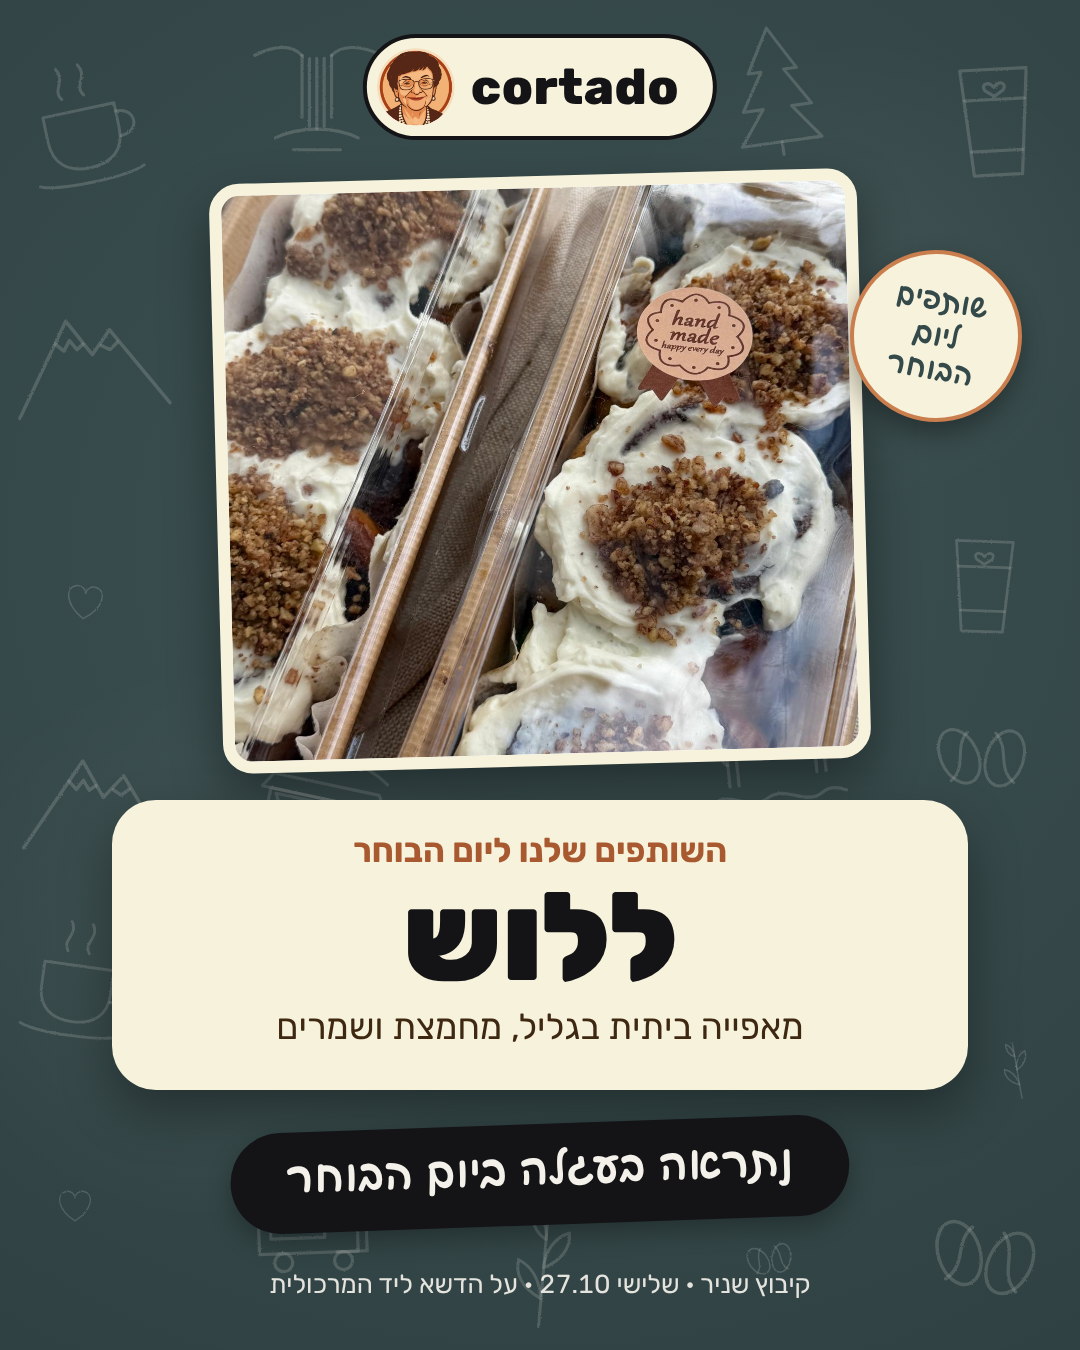
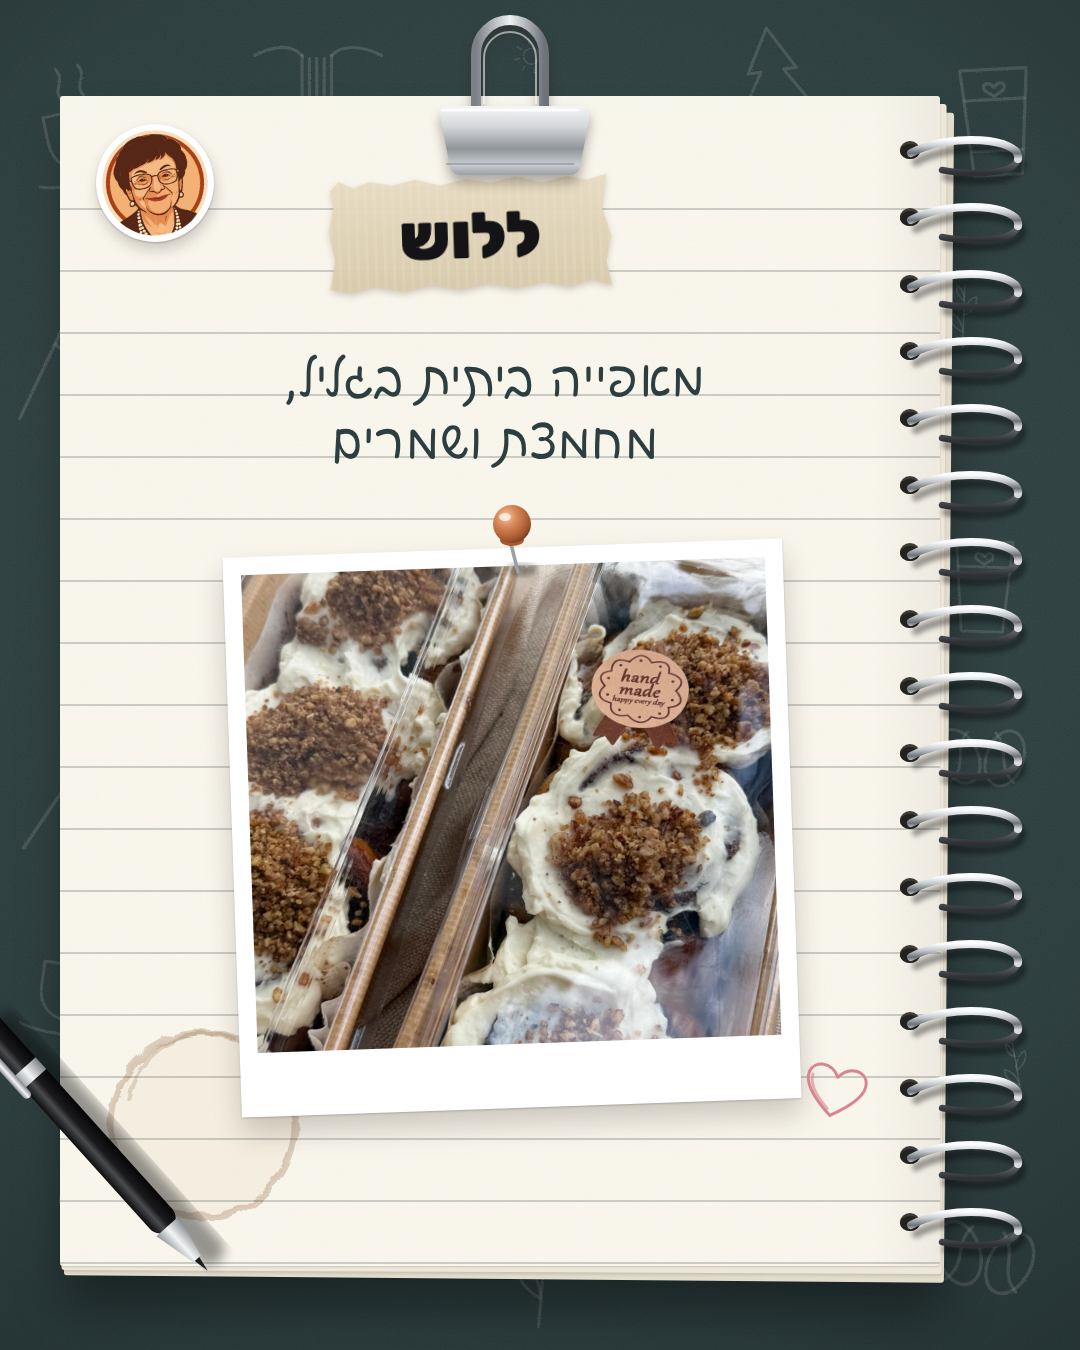
Election-day carousel: real-notebook pages in the cart's colors
Templates 80-84 with notebook.css/notebook.js (ruled paper, spiral, clip,
tape, pins, pen, coffee ring) on the chalkboard green. Replaces 70-74.

Claude-Session: https://claude.ai/code/session_013haAdpctRrk92YNsAEXH9q

diff --git a/toolkit/templates/notebook.js b/toolkit/templates/notebook.js
@@ -1,0 +1,54 @@
+// Real-notebook frame (24.10.2026). Include after the page's own markup.
+// body[data-lined] rules the paper; body[data-clip] adds the binder clip.
+// Fill-ins: .pin .pen .stain .heart .paperclip get their SVG from here, placed by their inline style.
+(function () {
+  const b = document.body, NS = "http://www.w3.org/2000/svg";
+  const add = (html, before) => { const t = document.createElement("template"); t.innerHTML = html.trim(); const n = t.content.firstChild;
+    before ? b.insertBefore(n, b.firstChild) : b.appendChild(n); return n; };
+
+  // the layers under the page, inserted back to front at the start of <body>
+  const under = [
+    '<img class="doodles" src="../assets/art/doodles-post.svg" alt="">',
+    '<svg class="desk-noise" viewBox="0 0 1080 1350" preserveAspectRatio="none"><filter id="dn"><feTurbulence type="fractalNoise" baseFrequency=".8" numOctaves="2" seed="3"/><feColorMatrix values="0 0 0 0 0  0 0 0 0 0  0 0 0 0 0  0 0 0 .16 0"/></filter><rect width="1080" height="1350" filter="url(#dn)"/></svg>',
+    '<div class="desk-vig"></div>',
+    '<div class="sheet s3"></div>', '<div class="sheet s2"></div>',
+    `<div class="paper${"lined" in b.dataset ? " lined" : ""}"><svg class="grain" viewBox="0 0 880 1170" preserveAspectRatio="none"><filter id="pg"><feTurbulence type="fractalNoise" baseFrequency=".9" numOctaves="3" seed="8"/><feColorMatrix values="0 0 0 0 .45  0 0 0 0 .4  0 0 0 0 .33  0 0 0 .13 0"/></filter><rect width="880" height="1170" filter="url(#pg)"/></svg><div class="edge"></div></div>`,
+  ];
+  for (const h of under.reverse()) add(h, true);
+
+  // punched holes and the wire coil, over everything on the page
+  let g = "", x = 910;
+  for (let y = 150; y <= 1222; y += 67) {
+    g += `<ellipse cx="${x}" cy="${y}" rx="10" ry="9" fill="#3d3b38"/><ellipse cx="${x}" cy="${y + 1.5}" rx="10" ry="7.5" fill="#24221f"/>`;
+    g += `<path d="M${x + 2} ${y + 5} C${x + 40} ${y - 16},${x + 112} ${y - 10},${x + 108} ${y + 9} C${x + 104} ${y + 24},${x + 66} ${y + 26},${x + 32} ${y + 20}" fill="none" stroke="rgba(0,0,0,.38)" stroke-width="8" stroke-linecap="round" filter="url(#cs)" transform="translate(4 7)"/>`;
+    g += `<path d="M${x + 108} ${y + 9} C${x + 104} ${y + 24},${x + 66} ${y + 26},${x + 32} ${y + 20}" fill="none" stroke="url(#wb)" stroke-width="6.5" stroke-linecap="round"/>`;
+    g += `<path d="M${x + 1} ${y + 3} C${x + 40} ${y - 18},${x + 112} ${y - 12},${x + 108} ${y + 9}" fill="none" stroke="url(#wf)" stroke-width="8" stroke-linecap="round"/>`;
+  }
+  add(`<svg class="over" viewBox="0 0 1080 1350"><defs>
+    <filter id="cs" x="-20%" y="-50%" width="140%" height="200%"><feGaussianBlur stdDeviation="2.6"/></filter>
+    <linearGradient id="wf" x1="0" y1="0" x2="0" y2="1"><stop offset="0" stop-color="#fbfcfd"/><stop offset=".35" stop-color="#c3c7cc"/><stop offset=".7" stop-color="#6c7176"/><stop offset="1" stop-color="#d8dbdf"/></linearGradient>
+    <linearGradient id="wb" x1="0" y1="0" x2="0" y2="1"><stop offset="0" stop-color="#6b6f74"/><stop offset="1" stop-color="#2e3134"/></linearGradient>
+  </defs>${g}</svg>`);
+
+  if ("clip" in b.dataset) add(`<svg class="clip" width="180" height="170" viewBox="0 0 180 170"><defs>
+    <linearGradient id="cb" x1="0" y1="0" x2="0" y2="1"><stop offset="0" stop-color="#f4f5f6"/><stop offset=".3" stop-color="#d4d7da"/><stop offset=".62" stop-color="#8f959a"/><stop offset=".85" stop-color="#c9cdd1"/><stop offset="1" stop-color="#9aa0a5"/></linearGradient>
+    <linearGradient id="cw" x1="0" y1="0" x2="1" y2="0"><stop offset="0" stop-color="#7b8187"/><stop offset=".5" stop-color="#eef0f2"/><stop offset="1" stop-color="#6d7379"/></linearGradient></defs>
+    <path d="M56 92 V40 a34 34 0 0 1 68 0 V92" fill="none" stroke="url(#cw)" stroke-width="10" stroke-linecap="round"/>
+    <path d="M64 90 V44 a26 26 0 0 1 52 0 V90" fill="none" stroke="rgba(255,255,255,.55)" stroke-width="2"/>
+    <path d="M18 92 h144 a8 8 0 0 1 8 9 l-10 52 a10 10 0 0 1 -10 8 h-110 a10 10 0 0 1 -10 -8 l-10 -52 a8 8 0 0 1 8 -9z" fill="url(#cb)"/>
+    <path d="M22 96 h136" stroke="rgba(255,255,255,.85)" stroke-width="3" stroke-linecap="round"/>
+    <path d="M26 150 h128" stroke="rgba(0,0,0,.18)" stroke-width="2"/></svg>`);
+
+  const fill = (sel, svg) => document.querySelectorAll(sel).forEach((e, i) => { e.innerHTML = svg(i, e); });
+  fill(".pin", (i) => `<svg width="70" height="84" viewBox="0 0 70 84"><defs><radialGradient id="pn${i}" cx=".35" cy=".3" r=".75"><stop offset="0" stop-color="#F6C3A0"/><stop offset=".35" stop-color="#D98B5C"/><stop offset=".8" stop-color="#A9592F"/><stop offset="1" stop-color="#7a3d1e"/></radialGradient><filter id="pb${i}"><feGaussianBlur stdDeviation="3"/></filter></defs>
+    <ellipse cx="44" cy="70" rx="16" ry="6" fill="rgba(0,0,0,.35)" filter="url(#pb${i})"/><path d="M33 44 L40 72" stroke="#9aa0a6" stroke-width="3.5" stroke-linecap="round"/>
+    <path d="M22 40 a12 6 0 0 0 24 0 l-3 -8 h-18z" fill="#A9592F"/><circle cx="34" cy="24" r="19" fill="url(#pn${i})"/><ellipse cx="27" cy="17" rx="6" ry="4" fill="rgba(255,255,255,.7)"/></svg>`);
+  fill(".pen", (i) => `<svg width="420" height="420" viewBox="0 0 420 420"><defs><linearGradient id="pk${i}" x1="0" y1="0" x2="1" y2="0"><stop offset="0" stop-color="#0d0d0e"/><stop offset=".35" stop-color="#4a4b4e"/><stop offset=".55" stop-color="#1b1b1d"/><stop offset="1" stop-color="#050506"/></linearGradient><linearGradient id="pc${i}" x1="0" y1="0" x2="1" y2="0"><stop offset="0" stop-color="#8e9399"/><stop offset=".45" stop-color="#f3f4f5"/><stop offset="1" stop-color="#7d8288"/></linearGradient><filter id="ps${i}"><feGaussianBlur stdDeviation="6"/></filter></defs>
+    <g transform="rotate(-42 210 210)"><rect x="196" y="40" width="30" height="330" rx="14" fill="rgba(0,0,0,.4)" filter="url(#ps${i})" transform="translate(14 16)"/>
+    <rect x="195" y="30" width="30" height="300" rx="14" fill="url(#pk${i})"/><rect x="195" y="112" width="30" height="16" fill="url(#pc${i})"/><rect x="189" y="34" width="9" height="104" rx="4.5" fill="url(#pc${i})"/>
+    <path d="M195 326 h30 l-10 44 h-10z" fill="url(#pc${i})"/><path d="M207 370 h6 l-3 16z" fill="#1c1c1e"/></g></svg>`);
+  fill(".stain", (i) => `<svg width="230" height="230" viewBox="0 0 230 230"><filter id="st${i}"><feTurbulence type="fractalNoise" baseFrequency=".05" numOctaves="2" seed="${4 + i}"/><feDisplacementMap in="SourceGraphic" scale="9"/></filter>
+    <g filter="url(#st${i})"><circle cx="115" cy="115" r="92" fill="rgba(150,95,45,.05)"/><circle cx="115" cy="115" r="92" fill="none" stroke="rgba(130,80,35,.24)" stroke-width="7"/><path d="M40 90 a80 80 0 0 1 110 -60" fill="none" stroke="rgba(120,70,30,.18)" stroke-width="4"/></g></svg>`);
+  fill(".heart", (i, e) => `<svg width="100%" height="100%" viewBox="0 0 70 62" fill="none" stroke="${e.dataset.c || "#D9858F"}" stroke-width="3" stroke-linecap="round" stroke-linejoin="round"><path d="M35 56 C10 38 4 26 6 17 C9 5 26 3 35 17 C44 3 61 5 64 17 C66 26 60 38 35 56 Z"/><path d="M31 50 C13 36 9 26 10 19" opacity=".6"/></svg>`);
+  fill(".paperclip", () => `<svg width="70" height="190" viewBox="0 0 70 190"><path d="M44 30 V150 a14 14 0 0 1 -28 0 V40 a22 22 0 0 1 44 0 V160 a28 28 0 0 1 -56 0 V60" fill="none" stroke="#b9bec3" stroke-width="5" stroke-linecap="round"/><path d="M44 30 V150 a14 14 0 0 1 -28 0 V40" fill="none" stroke="rgba(255,255,255,.6)" stroke-width="1.6"/></svg>`);
+})();

diff --git a/toolkit/templates/notebook.css b/toolkit/templates/notebook.css
@@ -1,0 +1,36 @@
+/* Real-notebook carousel (24.10.2026): desk, page stack, ruled paper, spiral, clip, tape, ink. Built by notebook.js. */
+body{background-color:#34494A;background-image:radial-gradient(120% 90% at 50% 40%,rgba(255,255,255,.05),rgba(0,0,0,.2) 100%);font-family:Rubik;color:#141417;position:relative;overflow:hidden}
+.doodles{position:absolute;inset:0;width:100%;height:100%;pointer-events:none;opacity:.5}
+.desk-noise,.desk-vig{position:absolute;inset:0;width:100%;height:100%;pointer-events:none}
+.desk-vig{background:radial-gradient(120% 90% at 45% 45%,transparent 55%,rgba(0,0,0,.25) 100%)}
+.sheet{position:absolute;left:60px;top:96px;width:880px;height:1170px;border-radius:3px}
+.sheet.s3{transform:translate(9px,13px) rotate(.5deg);background:#E2DCCD;box-shadow:0 30px 50px rgba(0,0,0,.4)}
+.sheet.s2{transform:translate(4px,6px) rotate(.25deg);background:#EDE7DA;box-shadow:0 2px 3px rgba(50,40,30,.15)}
+.paper{position:absolute;left:60px;top:96px;width:880px;height:1170px;border-radius:3px;background-color:#FBF8EF;overflow:hidden;
+  box-shadow:0 1px 2px rgba(50,40,30,.18)}
+.paper.lined{background-image:linear-gradient(to bottom,transparent 0 113px,rgba(205,120,110,.0) 113px),
+  repeating-linear-gradient(to bottom,transparent 0 60px,rgba(52,73,74,.24) 60px 62px);background-position:0 0,0 52px}
+.paper .grain{position:absolute;inset:0;width:100%;height:100%;mix-blend-mode:multiply;opacity:.55}
+.paper .edge{position:absolute;right:0;top:0;bottom:0;width:70px;background:linear-gradient(90deg,transparent,rgba(60,50,40,.06))}
+.over{position:absolute;inset:0;width:100%;height:100%;pointer-events:none;z-index:5}
+.clip{position:absolute;left:420px;top:14px;z-index:6;filter:drop-shadow(0 8px 6px rgba(40,30,20,.35))}
+.tapew{position:absolute;left:470px;top:178px;transform:translateX(-50%) rotate(-1.8deg);z-index:4;filter:drop-shadow(0 3px 3px rgba(60,45,30,.22))}
+.tape{background-color:rgba(226,211,180,.94);
+  background-image:repeating-linear-gradient(90deg,rgba(255,255,255,.08) 0 3px,transparent 3px 9px),linear-gradient(180deg,rgba(255,255,255,.18),rgba(0,0,0,.04));
+  padding:26px 70px 22px;white-space:nowrap;font-weight:900;font-size:64px;line-height:1;color:#141417;
+  clip-path:polygon(1% 8%,4% 0,9% 6%,15% 1%,23% 5%,31% 0,40% 6%,49% 1%,58% 5%,67% 0,76% 6%,85% 1%,92% 5%,99% 0,97% 30%,100% 55%,98% 78%,100% 100%,93% 94%,85% 100%,76% 95%,66% 100%,56% 95%,46% 100%,36% 95%,26% 100%,16% 95%,7% 100%,0 96%,2% 70%,0 45%,2% 22%)}
+.ink{position:absolute;font-family:"Playpen Sans Hebrew";font-weight:400;color:#2C3E3F;font-size:50px;line-height:62px;z-index:3;text-wrap:balance}
+.ink b{font-weight:600}
+.hl{background:linear-gradient(transparent 52%,rgba(242,175,117,.62) 52%,rgba(242,175,117,.62) 92%,transparent 92%);padding:0 6px}
+.pol{position:absolute;background:#fff;padding:18px 18px 64px;z-index:3;
+  box-shadow:0 1px 2px rgba(0,0,0,.18),0 16px 28px rgba(50,40,30,.22)}
+.pol img{display:block;width:100%;height:100%;object-fit:cover}
+.pol .cap{position:absolute;left:0;right:0;bottom:12px;text-align:center;font-family:"Playpen Sans Hebrew";font-size:30px;color:#2C3E3F}
+.sticker{position:absolute;border-radius:50%;background:#fff;padding:6px;z-index:4;box-shadow:0 1px 2px rgba(0,0,0,.2),0 8px 14px rgba(50,40,30,.22)}
+.sticker img{display:block;width:100%;height:100%;border-radius:50%}
+.pin,.pen,.stain,.heart,.paperclip{position:absolute;z-index:6}
+.stain{z-index:2;mix-blend-mode:multiply}
+.note{position:absolute;z-index:4;background:#F7F2DC;padding:30px 36px;font-family:"Playpen Sans Hebrew";font-weight:600;font-size:40px;color:#2C3E3F;text-align:center;
+  box-shadow:0 1px 2px rgba(0,0,0,.12),0 14px 22px rgba(50,40,30,.18)}
+.ribbon{position:absolute;left:50%;transform:translateX(-50%) rotate(-2deg);background:#141417;color:#F4F1EA;border-radius:999px;padding:14px 56px 20px;
+  font-family:"Playpen Sans Hebrew";font-weight:600;font-size:42px;white-space:nowrap;z-index:6;box-shadow:0 10px 24px rgba(0,0,0,.3)}

diff --git a/toolkit/templates/84-nb-all.html b/toolkit/templates/84-nb-all.html
@@ -1,0 +1,35 @@
+<!doctype html><html lang="he" dir="rtl"><head><meta charset="utf-8"><meta name="size" content="1080x1350">
+<link rel="stylesheet" href="base.css"><link rel="stylesheet" href="notebook.css">
+<!-- Real-notebook election carousel (24.10.2026), last page: everyone who comes, as a ticked list.
+     Data: window.HOURS.all = {tiles:[{name, what}]}. -->
+<style>
+.sticker{left:96px;top:124px;width:118px;height:118px;transform:rotate(-9deg)}
+.tapew .tape{font-size:56px}
+.list{position:absolute;left:150px;right:200px;top:342px;z-index:3}
+.row{display:flex;align-items:center;gap:18px;height:62px;font-family:"Playpen Sans Hebrew";font-size:42px;color:#2C3E3F;white-space:nowrap}
+.row b{font-weight:600}
+.row small{font-size:34px;opacity:.8}
+.row svg{flex:none}
+.ink.h1{left:110px;right:200px;top:964px;text-align:center;font-weight:600;font-size:52px}
+.ink.h2{left:110px;right:200px;top:1026px;text-align:center;font-size:42px}
+.ribbon{top:1130px}
+</style></head><body data-lined data-clip>
+<div class="tapew"><div class="tape">מי מגיע ביום הבוחר</div></div>
+<div class="sticker"><img src="../assets/logo.png" alt=""></div>
+<div class="list" id="list"></div>
+<div class="ink h1"><span class="hl">שלישי <span class="t">27.10</span> · <span class="t">15:00–19:00</span></span></div>
+<div class="ink h2">קיבוץ שניר, על הדשא ליד המרכולית</div>
+<div class="ribbon">נתראה בעגלה</div>
+<div class="heart" style="left:120px;top:1110px;width:70px;height:62px;transform:rotate(-14deg)"></div>
+<script>
+const box = (i) => `<svg width="40" height="40" viewBox="0 0 40 40" aria-hidden="true"><path d="M5 6 C14 4,27 5,35 5 C36 14,35 26,35 35 C25 36,14 35,5 35 C4 26,5 15,5 6 Z" fill="none" stroke="#2C3E3F" stroke-width="2.6" stroke-linejoin="round"/>
+  <path d="M10 ${19 + (i % 2)} L18 29 L37 4" fill="none" stroke="#C26E3E" stroke-width="4.2" stroke-linecap="round" stroke-linejoin="round"/></svg>`;
+((window.HOURS || {}).all || {}).tiles.forEach((t, i) => {
+  const r = document.createElement("div"); r.className = "row";
+  r.innerHTML = box(i) + "<b></b><small></small>";
+  r.querySelector("b").textContent = t.name; r.querySelector("small").textContent = "· " + t.what;
+  document.getElementById("list").append(r);
+});
+</script>
+<script src="notebook.js"></script>
+</body></html>

diff --git a/toolkit/templates/80-nb-cover.html b/toolkit/templates/80-nb-cover.html
@@ -1,0 +1,24 @@
+<!doctype html><html lang="he" dir="rtl"><head><meta charset="utf-8"><meta name="size" content="1080x1350">
+<link rel="stylesheet" href="base.css"><link rel="stylesheet" href="notebook.css">
+<!-- Real-notebook election carousel (24.10.2026), page 1. -->
+<style>
+.sticker{left:96px;top:124px;width:150px;height:150px;transform:rotate(-9deg)}
+.h{position:absolute;left:100px;right:200px;top:300px;text-align:center;font-weight:900;font-size:132px;line-height:.95;letter-spacing:-1px;color:#141417;z-index:3}
+.ink.a{left:100px;right:200px;top:584px;text-align:center}
+.ink.b{left:100px;right:200px;top:656px;text-align:center;font-weight:600;font-size:52px}
+.pol{left:150px;top:790px;width:400px;height:400px;transform:rotate(-6deg)}
+.ink.c{left:600px;top:1100px;font-size:46px;transform:rotate(-4deg)}
+</style></head><body data-clip>
+<div class="sticker"><img src="../assets/logo.png" alt=""></div>
+<div class="h">לא באים<br>לדשא לבד</div>
+<div class="ink a">יום הבוחר על הדשא</div>
+<div class="ink b"><span class="hl">שלישי <span class="t">27.10</span> · <span class="t">15:00–19:00</span></span></div>
+<div class="pol"><img src="../assets/photos/hero.jpg" style="object-position:50% 75%" alt=""></div>
+<div class="pin" style="left:316px;top:752px"></div>
+<div class="stain" style="left:610px;top:790px"></div>
+<div class="heart" style="left:640px;top:880px;width:90px;height:80px;transform:rotate(-10deg)"></div>
+<div class="ink c">דפדפו ←</div>
+<div class="paperclip" style="left:820px;top:60px;transform:rotate(8deg)"></div>
+<div class="pen" style="left:-140px;top:960px"></div>
+<script src="notebook.js"></script>
+</body></html>

diff --git a/toolkit/templates/82-nb-partner.html b/toolkit/templates/82-nb-partner.html
@@ -1,0 +1,27 @@
+<!doctype html><html lang="he" dir="rtl"><head><meta charset="utf-8"><meta name="size" content="1080x1350">
+<link rel="stylesheet" href="base.css"><link rel="stylesheet" href="notebook.css">
+<!-- Real-notebook election carousel (24.10.2026): one page per partner.
+     Data: window.HOURS.partner = {name, line, photo, pos?, rot?, pen?}. Paths relative to this file. -->
+<style>
+.ink.l{left:120px;right:210px;top:350px;text-align:center}
+.pol{left:232px;top:548px;width:560px;height:560px}
+.sticker{left:96px;top:124px;width:118px;height:118px;transform:rotate(-9deg)}
+</style></head><body data-lined data-clip>
+<div class="tapew"><div class="tape" id="name"></div></div>
+<div class="sticker"><img src="../assets/logo.png" alt=""></div>
+<div class="ink l" id="line"></div>
+<div class="pol" id="pol"><img id="photo" alt=""></div>
+<div class="pin" style="left:478px;top:500px"></div>
+<div class="stain" style="left:88px;top:1010px"></div>
+<div class="heart" style="left:800px;top:1060px;width:70px;height:62px;transform:rotate(12deg)"></div>
+<div class="pen" id="pen" style="left:-120px;top:930px" hidden></div>
+<script>
+const p = (window.HOURS || {}).partner || {};
+document.getElementById("name").textContent = p.name || "";
+document.getElementById("line").textContent = p.line || "";
+const ph = document.getElementById("photo"); ph.src = p.photo || ""; if (p.pos) ph.style.objectPosition = p.pos;
+document.getElementById("pol").style.transform = `rotate(${p.rot ?? -2}deg)`;
+if (p.pen) document.getElementById("pen").hidden = false;
+</script>
+<script src="notebook.js"></script>
+</body></html>

diff --git a/toolkit/templates/83-nb-support.html b/toolkit/templates/83-nb-support.html
@@ -1,0 +1,20 @@
+<!doctype html><html lang="he" dir="rtl"><head><meta charset="utf-8"><meta name="size" content="1080x1350">
+<link rel="stylesheet" href="base.css"><link rel="stylesheet" href="notebook.css">
+<!-- Real-notebook election carousel (24.10.2026): supporting local businesses. -->
+<style>
+.sticker{left:96px;top:124px;width:118px;height:118px;transform:rotate(-9deg)}
+.ink.t1{left:110px;right:200px;top:350px;text-align:right}
+.note{left:300px;top:720px;width:470px;transform:rotate(-3deg);font-size:46px;line-height:1.35}
+.tape2{position:absolute;left:470px;top:694px;width:150px;height:52px;background:rgba(226,211,180,.85);transform:rotate(4deg);z-index:5}
+</style></head><body data-lined data-clip>
+<div class="tapew"><div class="tape">לפרגן</div></div>
+<div class="sticker"><img src="../assets/logo.png" alt=""></div>
+<div class="ink t1">כל דוכן על הדשא<br>הוא עסק של אנשים מהאזור.<br>קונים אצלם, טועמים,<br>ומספרים עליהם לחברים.</div>
+<div class="note">ככה הצפון<br>ממשיך לחיות</div>
+<div class="tape2"></div>
+<div class="heart" style="left:170px;top:760px;width:110px;height:98px;transform:rotate(-12deg)"></div>
+<div class="heart" style="left:790px;top:890px;width:64px;height:57px;transform:rotate(14deg)"></div>
+<div class="stain" style="left:560px;top:980px"></div>
+<div class="pen" style="left:-130px;top:930px"></div>
+<script src="notebook.js"></script>
+</body></html>

diff --git a/toolkit/templates/81-nb-together.html b/toolkit/templates/81-nb-together.html
@@ -1,0 +1,19 @@
+<!doctype html><html lang="he" dir="rtl"><head><meta charset="utf-8"><meta name="size" content="1080x1350">
+<link rel="stylesheet" href="base.css"><link rel="stylesheet" href="notebook.css">
+<!-- Real-notebook election carousel (24.10.2026), page 2. -->
+<style>
+.sticker{left:96px;top:124px;width:118px;height:118px;transform:rotate(-9deg)}
+.ink.t1{left:110px;right:200px;top:350px;text-align:right}
+.pol{left:200px;top:620px;width:600px;height:470px;transform:rotate(2deg)}
+.ink.sig{left:110px;top:1156px;font-size:42px;transform:rotate(-2deg)}
+</style></head><body data-lined data-clip>
+<div class="tapew"><div class="tape">ביחד</div></div>
+<div class="sticker"><img src="../assets/logo.png" alt=""></div>
+<div class="ink t1">חשוב לנו מאוד הביחד של כל האזור.<br>אז ביום הבוחר אנחנו מביאים לדשא<br>את החבר'ה שעושים איתנו <b>הכל</b>.</div>
+<div class="pol"><img src="../assets/photos/team.jpg" style="object-position:50% 62%" alt=""></div>
+<div class="pin" style="left:466px;top:580px"></div>
+<div class="heart" style="left:760px;top:520px;width:80px;height:70px;transform:rotate(14deg)"></div>
+<div class="ink sig">עמית, ניצן ושחר</div>
+<div class="stain" style="left:640px;top:1040px"></div>
+<script src="notebook.js"></script>
+</body></html>

diff --git a/toolkit/scripts/build_election_carousel.py b/toolkit/scripts/build_election_carousel.py
@@ -1,4 +1,4 @@
-"""Render the election-day carousel (12 pages, 1080x1350) with the cart's toolkit templates."""
+"""Render the election-day carousel (12 pages, 1080x1350): real-notebook pages (templates 80-84) in the cart's colors."""
 import pathlib, shutil, sys
 TK = pathlib.Path(__file__).resolve().parents[1]
 sys.path.insert(0, str(TK / "scripts"))
@@ -30,15 +30,15 @@ all_tiles = {"date": "שלישי 27.10 · יום הבחירות", "hours": "15:0
 
 base = {"week": "", "days": []}
 pages = []
-render({**base, "all": all_tiles}, ["70", "71", "73", "74"], tmp, False)
-pages += [tmp / "70-ev-cover.png", tmp / "71-ev-together.png"]
+render({**base, "all": all_tiles}, ["80", "81", "83", "84"], tmp, False)
+pages += [tmp / "80-nb-cover.png", tmp / "81-nb-together.png"]
 for i, (name, line, photo, pos, icon) in enumerate(partners, 3):
     render({**base, "partner": {"name": name, "line": line, "photo": P + photo, "pos": pos,
-                                "icon": f"../assets/art/{icon}.svg"}}, ["72"], tmp, False)
+                                "rot": (-2, 2.5, -1.5)[i % 3], "pen": i % 3 == 0}}, ["82"], tmp, False)
     dst = tmp / f"p{i:02d}.png"
-    shutil.move(tmp / "72-ev-partner.png", dst)
+    shutil.move(tmp / "82-nb-partner.png", dst)
     pages.append(dst)
-pages += [tmp / "73-ev-support.png", tmp / "74-ev-all.png"]
+pages += [tmp / "83-nb-support.png", tmp / "84-nb-all.png"]
 assert len(pages) == 12, len(pages)
 for i, f in enumerate(pages, 1):
     shutil.copy(f, OUT / f"{i:02d}.png")
